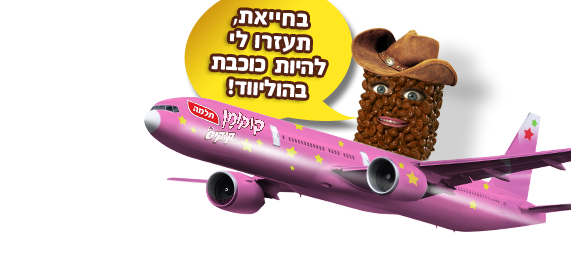
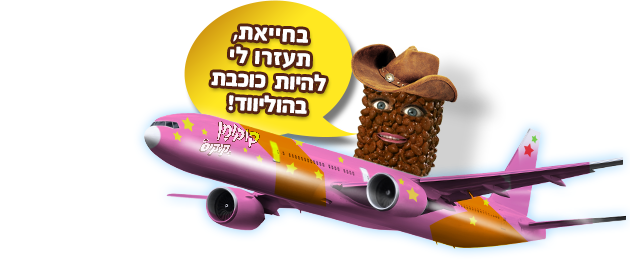
fixed plane, fixed ie/ff, fixed analytics

diff --git a/public/stylesheets/style.css b/public/stylesheets/style.css
@@ -12,7 +12,7 @@ a{color:#ffe821;}
 #elm_logo{background:transparent url(../images/main_elm_logo.png) no-repeat center center;bottom:20px;height:94px;right:10px;position:absolute;width:116px;}
 #elm_pack{background:transparent url(../images/main_elm_pack.png) no-repeat center center;bottom:0px;height:127px;left:10px;position:absolute;width:277px;}
 #video{background:black;height:399px;left:34px;position:absolute;top:32px;width:703px;}
-#elm_plane{background:transparent url(../images/main_elm_plane.png) no-repeat center center;height:261px;position:absolute;right:0;top:0;width:571px;-webkit-transform:translate(-200px, -200px);z-index:100;}
+#elm_plane{background:transparent url(../images/main_elm_plane.png) no-repeat center center;height:263px;position:absolute;right:0;top:-10px;width:630px;-webkit-transform:translate(-200px, -200px);z-index:100;}
 #thumbs{position:absolute;height:353px;left:770px;top:245px;width:237px;z-index:10;}#thumbs .thumb.item_0{height:115px;position:absolute;z-index:1;}
 #thumbs .thumb.item_1{height:115px;position:absolute;top:103px;z-index:2;}
 #thumbs .thumb.item_2{height:140px;position:absolute;top:200px;z-index:3;}

diff --git a/public/javascripts/controllers.js b/public/javascripts/controllers.js
@@ -73,6 +73,7 @@ var GlobalCtrl = ['$scope', '$resource', '$location', '$window', '$routeParams',
 			$scope.thumbs = response;
 			var newObj = {}
 			, totalVotes = 0;
+
 			for(var i=0;i<response.length;i++){
 				newObj[response[i]._id] = response[i];
 				totalVotes = totalVotes + response[i].votes;
@@ -108,6 +109,11 @@ var ChartCtrl = ['$scope', function($scope){
 			$scope.users[user].height = Math.round(($scope.users[user].votes / $scope.totalVotes ) * 320);
 		}
 	});
+	$scope.itemStyle = function (item, style) {
+		var obj = {}
+	    obj[style] = $scope.users[item].height + 'px';
+	    return obj;
+	};
 }];
 
 var VoteCtrl = ['$scope', function($scope){

diff --git a/public/stylesheets/main.less b/public/stylesheets/main.less
@@ -76,11 +76,11 @@
 
 #elm_plane {
 	background: transparent url(../images/main_elm_plane.png) no-repeat center center;
-	height: 261px;
+	height: 263px;
 	position: absolute;
 	right: 0;
-	top: 0;
-	width: 571px;
+	top: -10px;
+	width: 630px;
 	-webkit-transform: translate(-200px, -200px);
 	z-index: 100;
 }

diff --git a/models/index.js b/models/index.js
@@ -284,6 +284,8 @@ db.once('open', function () {
 		slogan: String,
 		name: String,
 		email: String,
+		age: Number,
+		gender: String,
 		phone: String,
 		voted_user: {type: ObjectId, index: true},
 		ref: {type: String, default: '0'},
